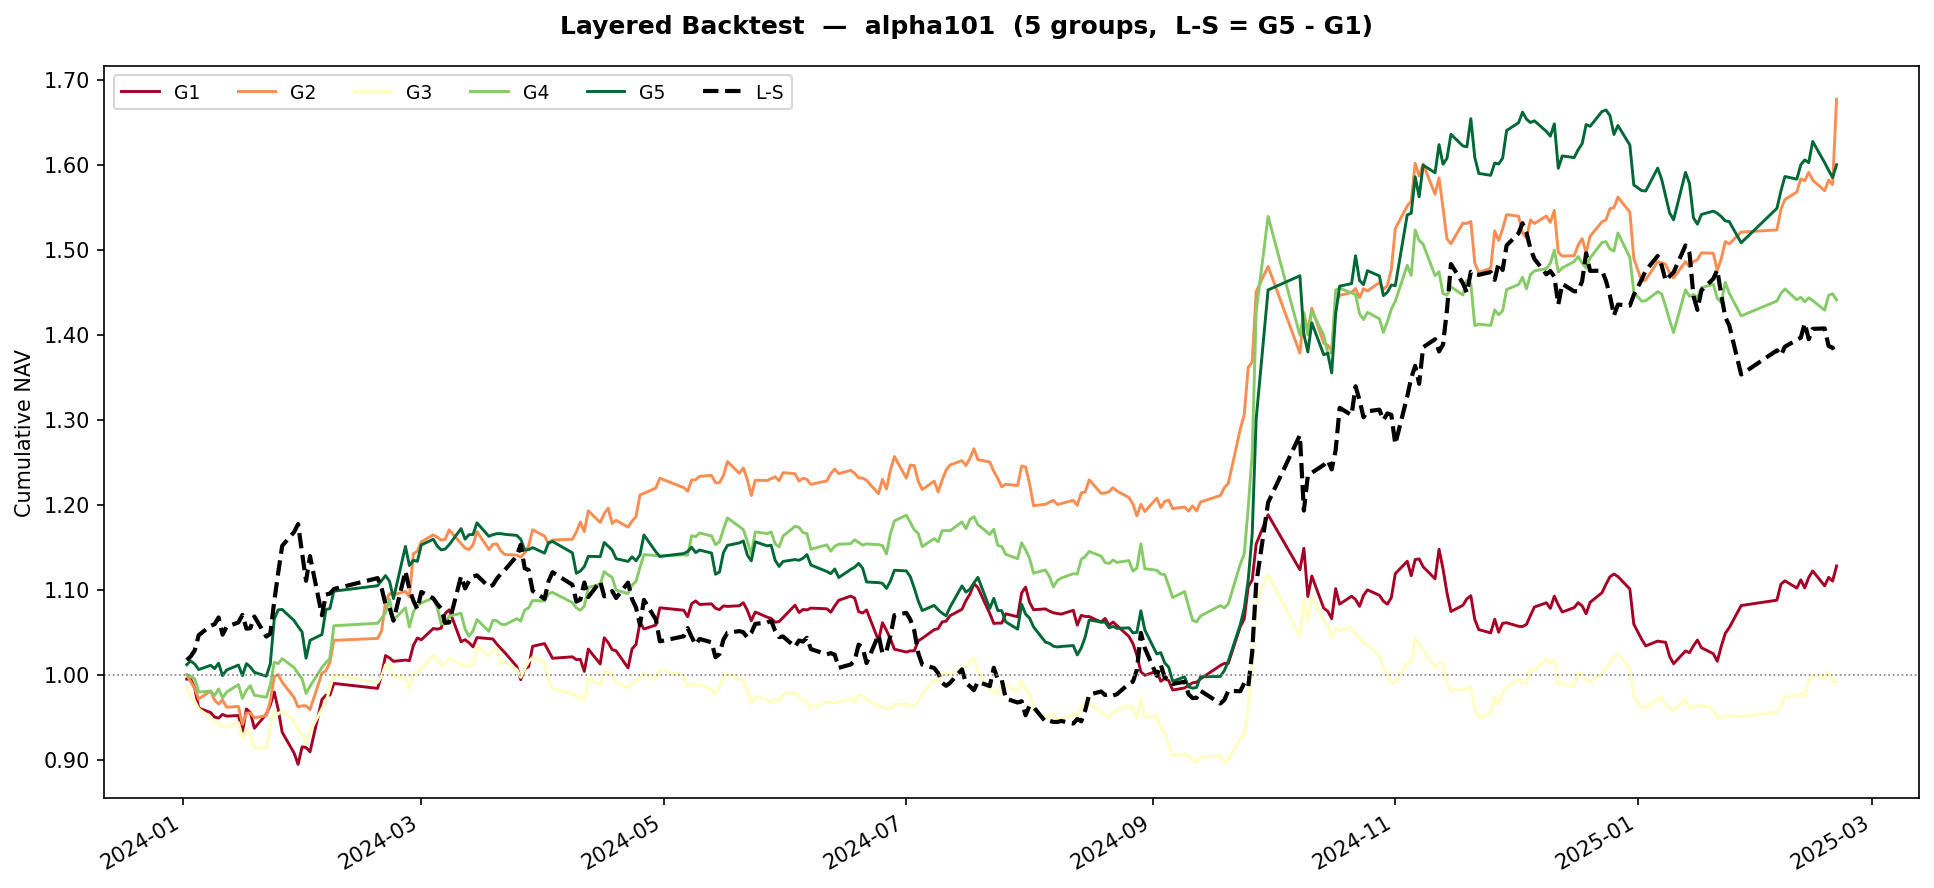
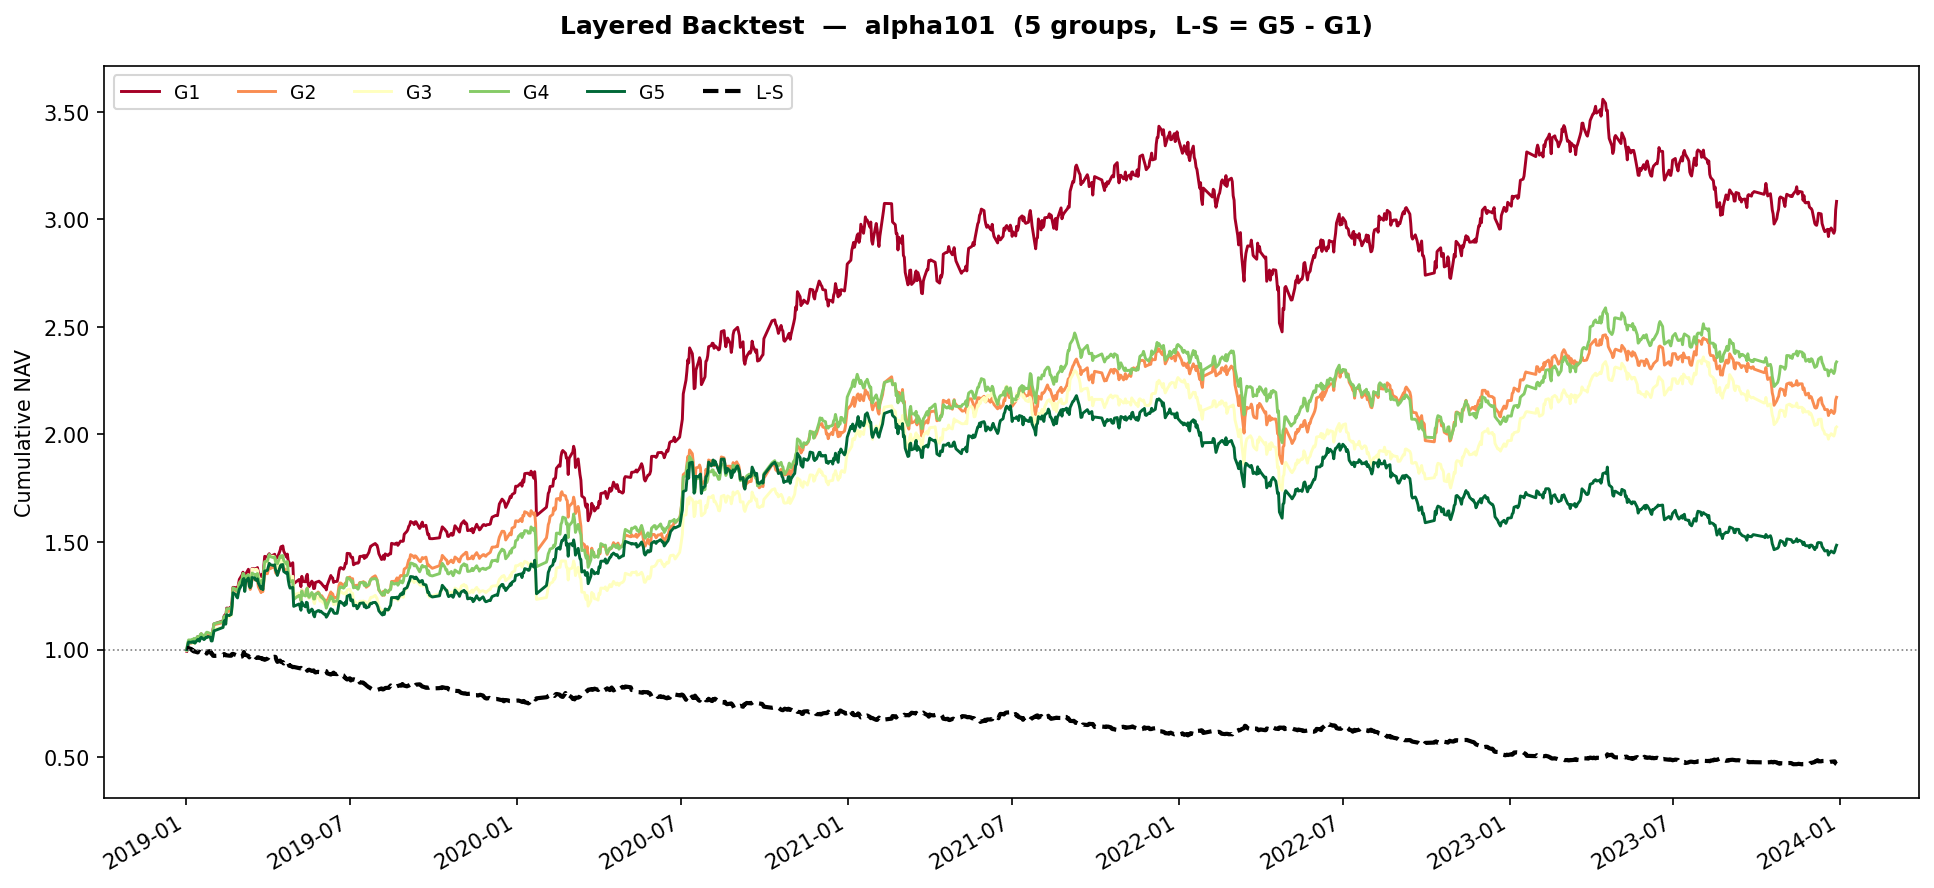
upd: 更新股票池、时间区段并重新生成数据库；重新启动行业、市值中性化；将因子反馈结果写入 result.txt；更新 Instruction.md

diff --git a/analyze_main.py b/analyze_main.py
@@ -120,7 +120,7 @@ def main() -> None:
         # 3.3 Plot IC chart and save to plots/
         save_path = PLOTS_DIR / f"{alpha}_ic.png"
         plot_ic(ic_series, factor_name=alpha, show=SHOW_PLOTS, save_path=save_path)
-        _info(f"  Plot saved : {save_path}")
+        _info(f"  IC chart saved.")
 
         # 3.4 Layered backtest
         bt = LayeredBacktester(single_factor, target_df, plots_dir=PLOTS_DIR)
@@ -129,7 +129,7 @@ def main() -> None:
         print(perf.to_string())
         bt_save = PLOTS_DIR / f"{alpha}_backtest.png"
         bt.plot(show=SHOW_PLOTS)
-        _info(f"  Backtest plot saved : {bt_save}")
+        _info(f"  Backtest plot saved.")
 
         # 3.5 Selection criteria
         if abs(metrics["ic_mean"]) > IC_MEAN_THRESHOLD and abs(metrics["icir"]) > ICIR_THRESHOLD:

diff --git a/src/preprocessor.py b/src/preprocessor.py
@@ -196,7 +196,7 @@ class FactorCleaner:
             df = self.standardize(df)
 
             # Step 4: Neutralize (core step — strip market-cap & industry bias)
-            # df = self.neutralize(df)
+            df = self.neutralize(df)
 
             # Step 5: Final standardize (re-center residuals to N(0,1))
             df = self.standardize(df)

diff --git a/Instruction.md b/Instruction.md
@@ -40,6 +40,7 @@
 ├── analyze_main.py             # 第二阶段总脚本：因子 IC 评估与有效因子筛选
 ├── .gitignore                  # 版本控制忽略规则
 ├── requirements.txt            # Python 依赖列表
+├── result.txt                  # analyze_main.py 自动生成的因子 summary
 ├── prompt.md                   # 项目需求与规范（仅本地查阅）
 └── Instruction.md              # 本说明文档
 ```
@@ -85,11 +86,11 @@
   | 变量 | 说明 | 默认值 |
   |------|------|--------|
   | `TUSHARE_TOKEN` | Tushare Pro Token（必填） | `"your_tushare_token"` |
-  | `START_DATE` | 数据开始日期（YYYYMMDD） | `"20220101"` |
-  | `END_DATE` | 数据结束日期（YYYYMMDD） | `"20250222"` |
+  | `START_DATE` | 数据开始日期（YYYYMMDD） | `"20190101"` |
+  | `END_DATE` | 数据结束日期（YYYYMMDD） | `"20231231"` |
   | `UNIVERSE_INDEX` | 股票池指数代码 | `"000300.SH"` |
   | `DB_PATH` | 数据库路径（相对于 src/） | `"../data/stock_data.db"` |
-  | `SLEEP_PER_CALL` | 每次 API 调用间隔（秒） | `0.2` |
+  | `SLEEP_PER_CALL` | 每次 API 调用间隔（秒） | `0.35` |
 
 - **注意**：此文件含 Token，已在 `.gitignore` 中排除，**切勿提交至 git**。
 
@@ -149,6 +150,7 @@
   | `alpha038` | `(-1 * rank(ts_rank(close, 10))) * rank(close/open)` | 近期高位且高涨幅的股票做空 |
   | `alpha041` | `sqrt(high * low) - vwap` | 高低价几何均值与成交均价之差（精确 vwap） |
   | `alpha101` | `(close - open) / (high - low + 0.001)` | 日内动量：价格区间归一化的涨跌幅 |
+  | `alpha_5_day_reversal` | `(close - delay(close, 5)) / delay(close, 5)` | 5日收盘价的反转因子 |
 
 - **VWAP 计算**：`amount` 字段可用时使用精确公式 `amount × 10 / vol`；否则回退到典型价格 `(H+L+C)/3`。
 
@@ -301,7 +303,7 @@
   from targets import calc_forward_return
 
   prices_df = pd.read_parquet("data/prices.parquet")
-  target_df = calc_forward_return(prices_df, d=5)  # 5-day forward return
+  target_df = calc_forward_return(prices_df, d=1)  # 1-day forward return
   ```
 
 ---
@@ -344,7 +346,8 @@
 
 - **使用**：
   ```bash
-  python analyze_main.py
+  python analyze_main.py > result.txt
+  # 关键统计信息打印到 result.txt
   ```
 
 - **可调配置**（脚本顶部常量）：
@@ -432,7 +435,7 @@ EOF
 python data_preparation_main.py
 
 # 5. 运行第二阶段总脚本（因子 IC 评估 + 有效因子筛选）
-python analyze_main.py
+python analyze_main.py > result.txt
 
 # 6. （可选）打开 Notebook 交互探索数据及因子
 jupyter notebook notebooks/explore.ipynb
